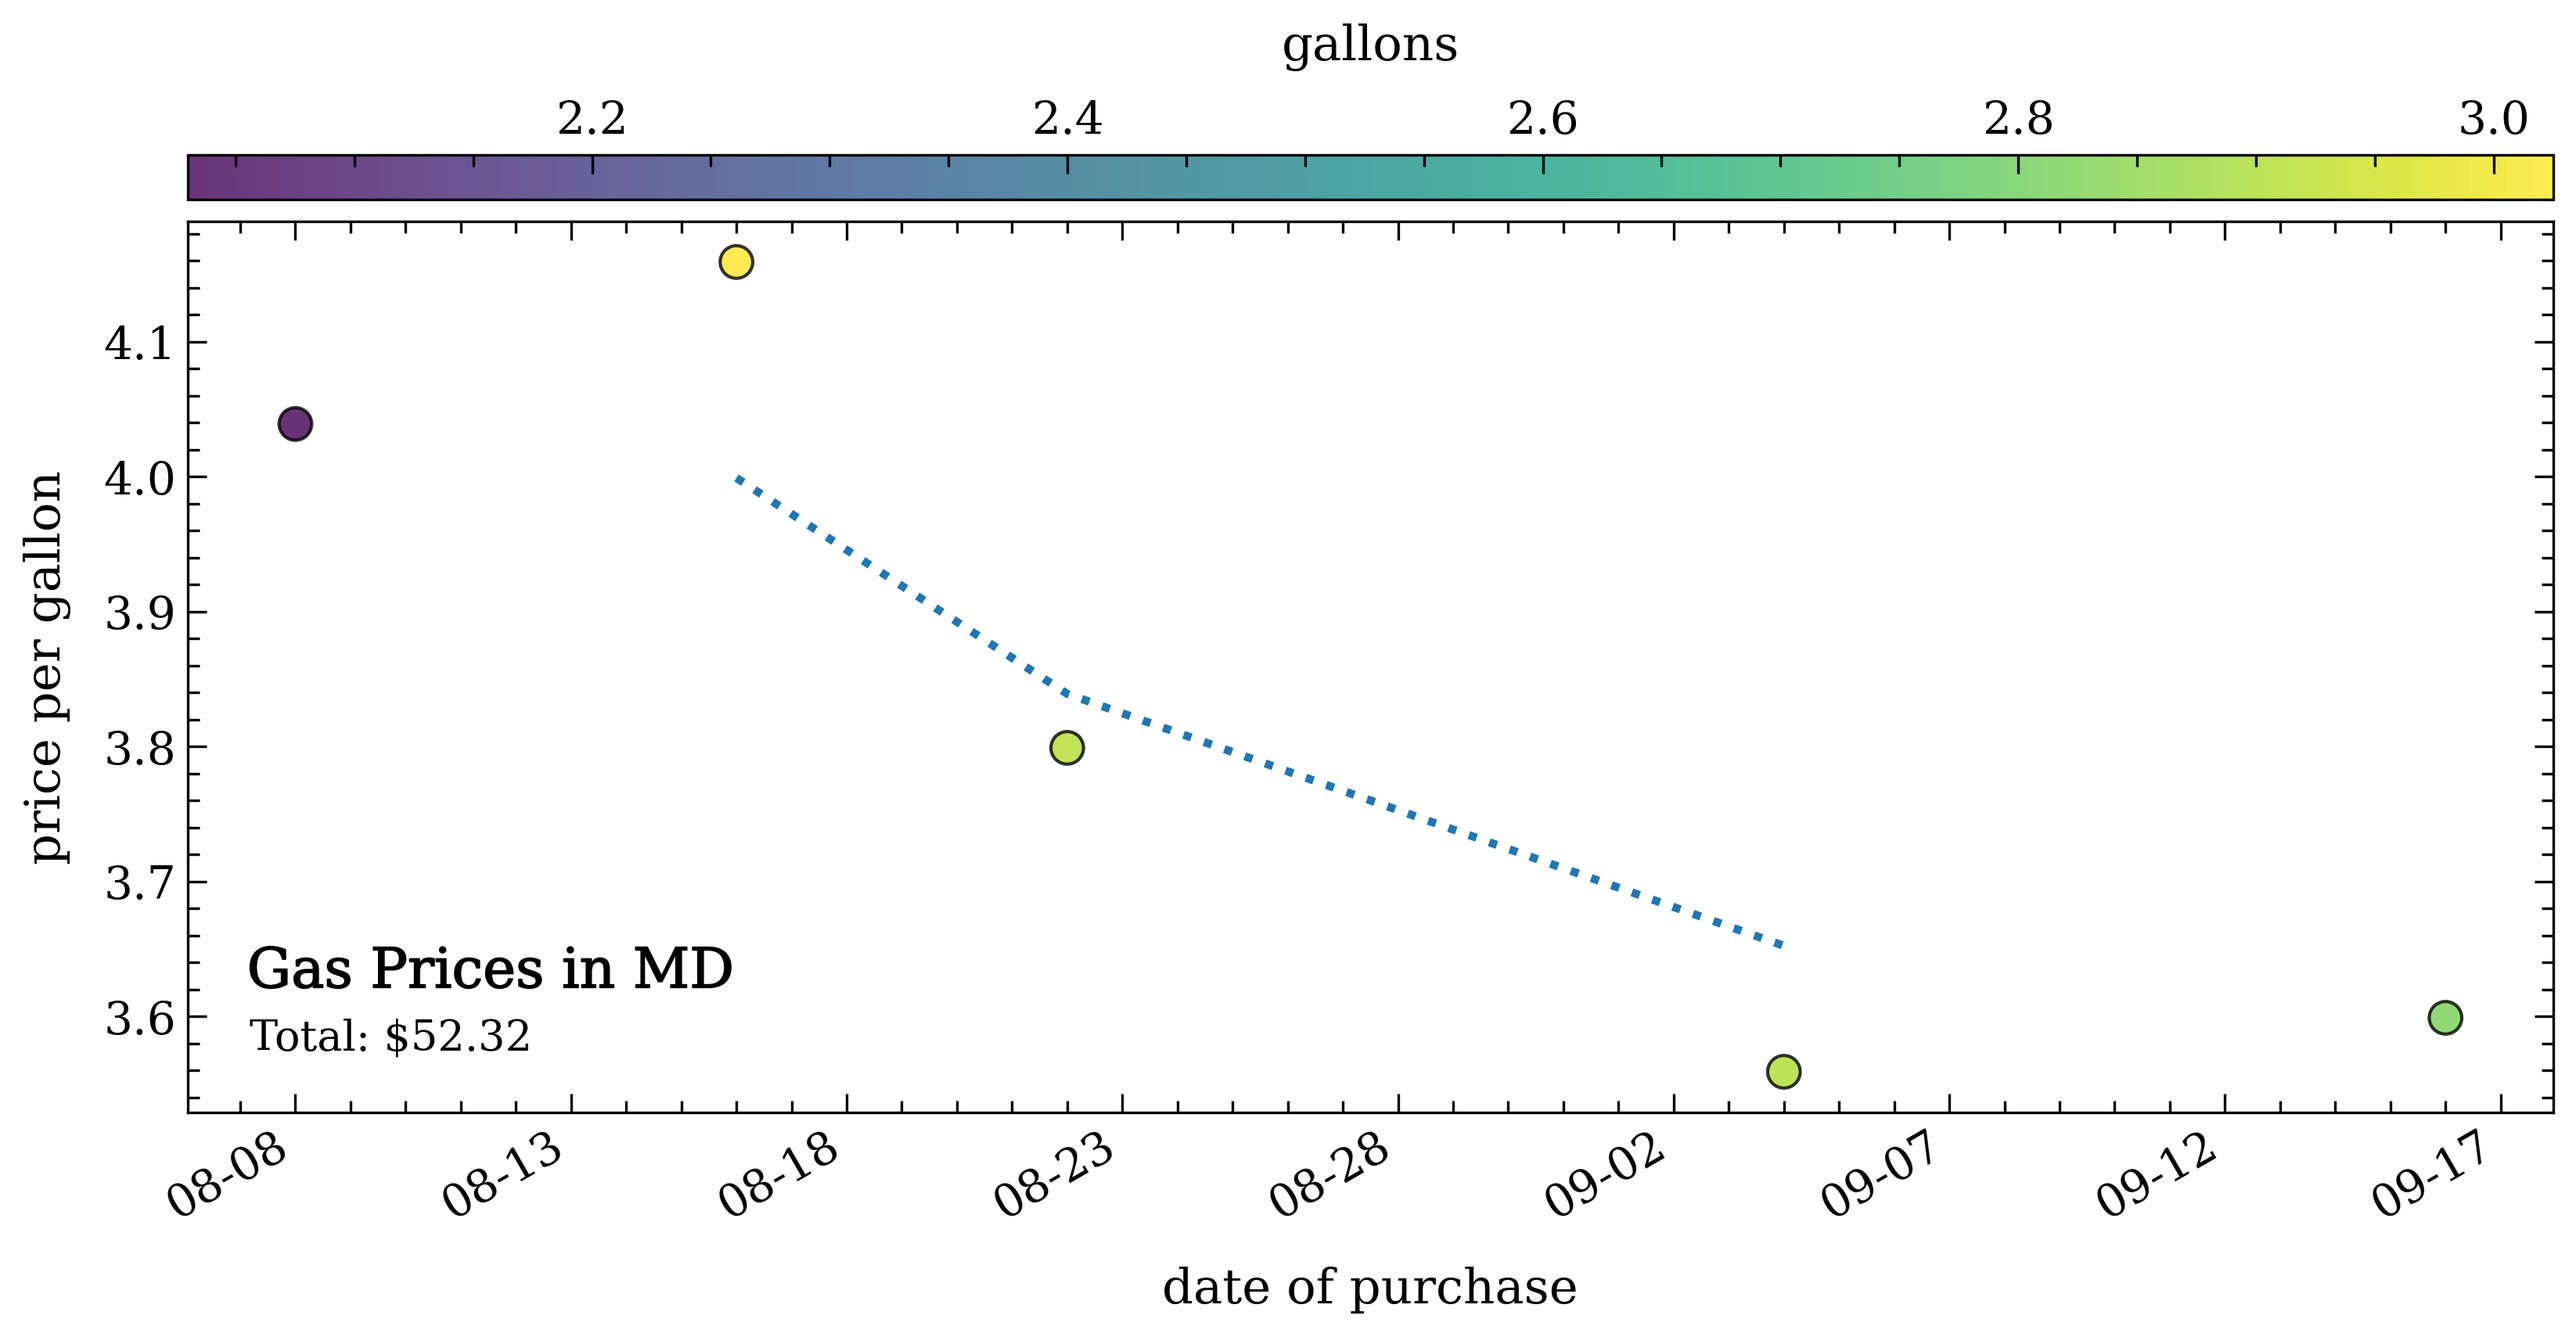
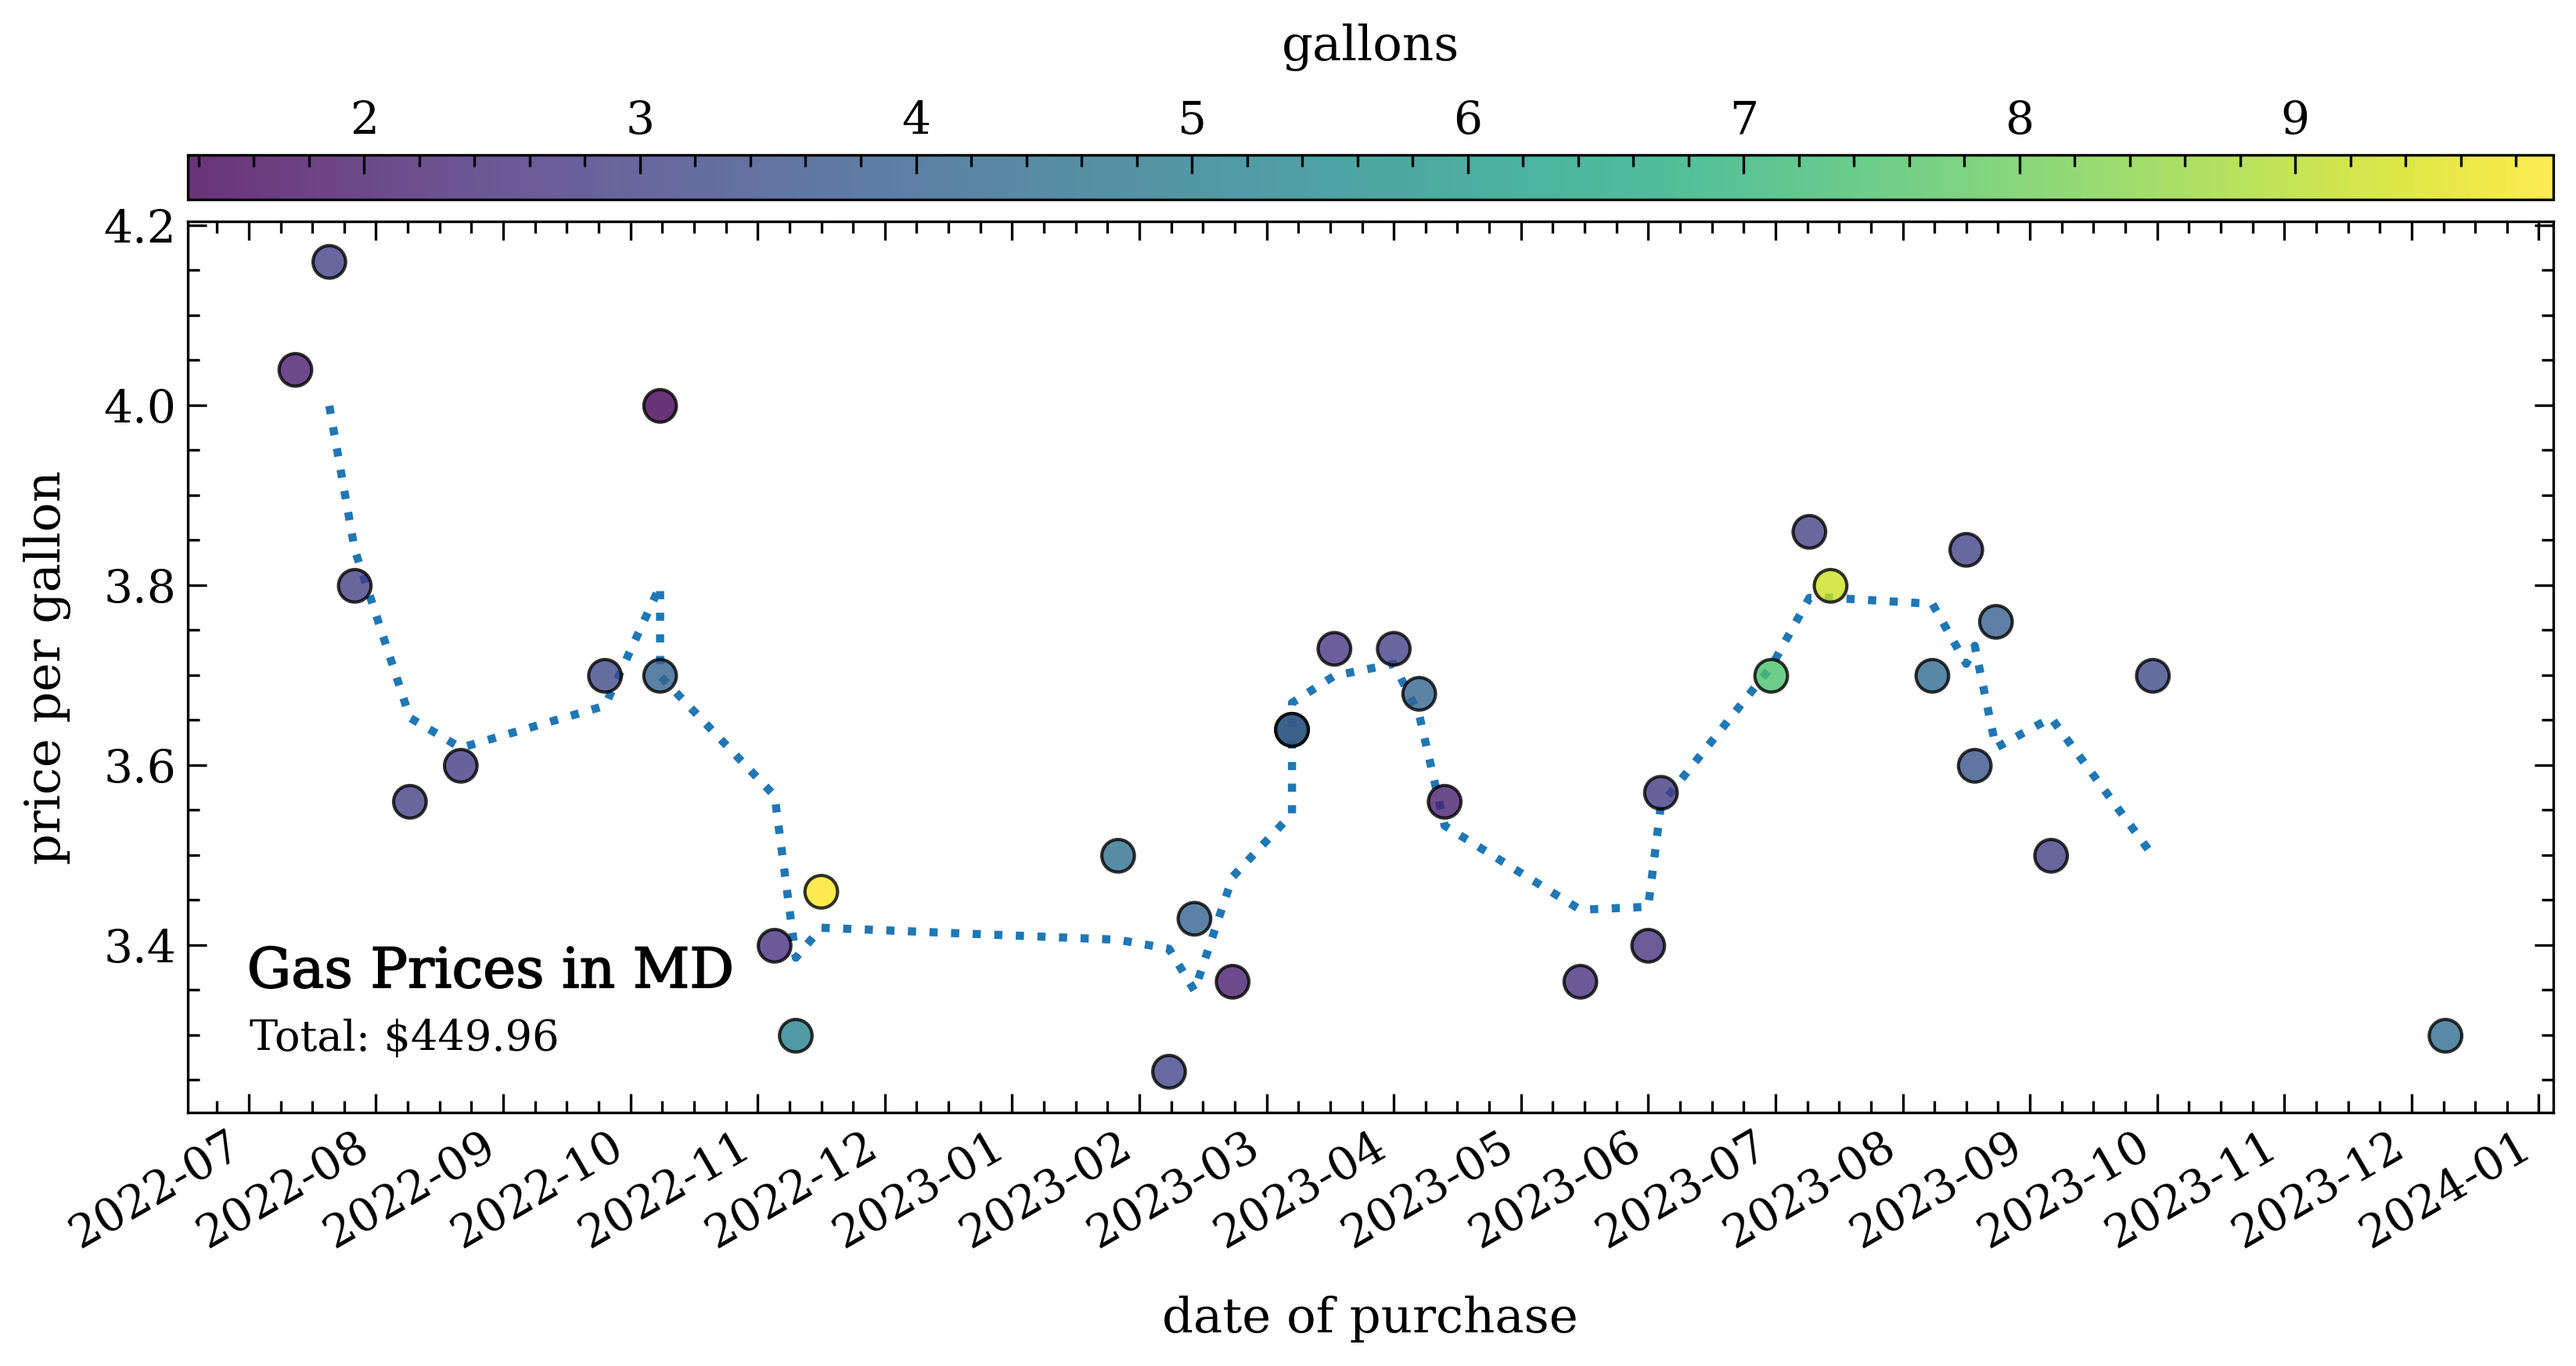
big dump of receipts! :fire:

diff --git a/seegas.py b/seegas.py
@@ -27,7 +27,7 @@ __email__ = 'aibhleog@tamu.edu'
 
 
 # places this car has lived
-maryland = { 'y1': 0.14, 'y2': 0.07, 'interval': 5, 'interval_format':'%m-%d' }
+maryland = { 'y1': 0.14, 'y2': 0.07, 'interval': 30, 'interval_format':'%Y-%m' }
 texas = { 'y1': 0.885, 'y2': 0.8, 'interval': 120, 'interval_format':'%Y-%m' }
 places = { 'TX': texas, 'MD': maryland }
 
@@ -89,7 +89,7 @@ cbar.ax.tick_params(labelsize=14)
 
 #plt.tight_layout()
 plt.savefig(f'ppgal-time-{state}.png')
-#plt.show()
+# plt.show()
 plt.close('all')
 
 
